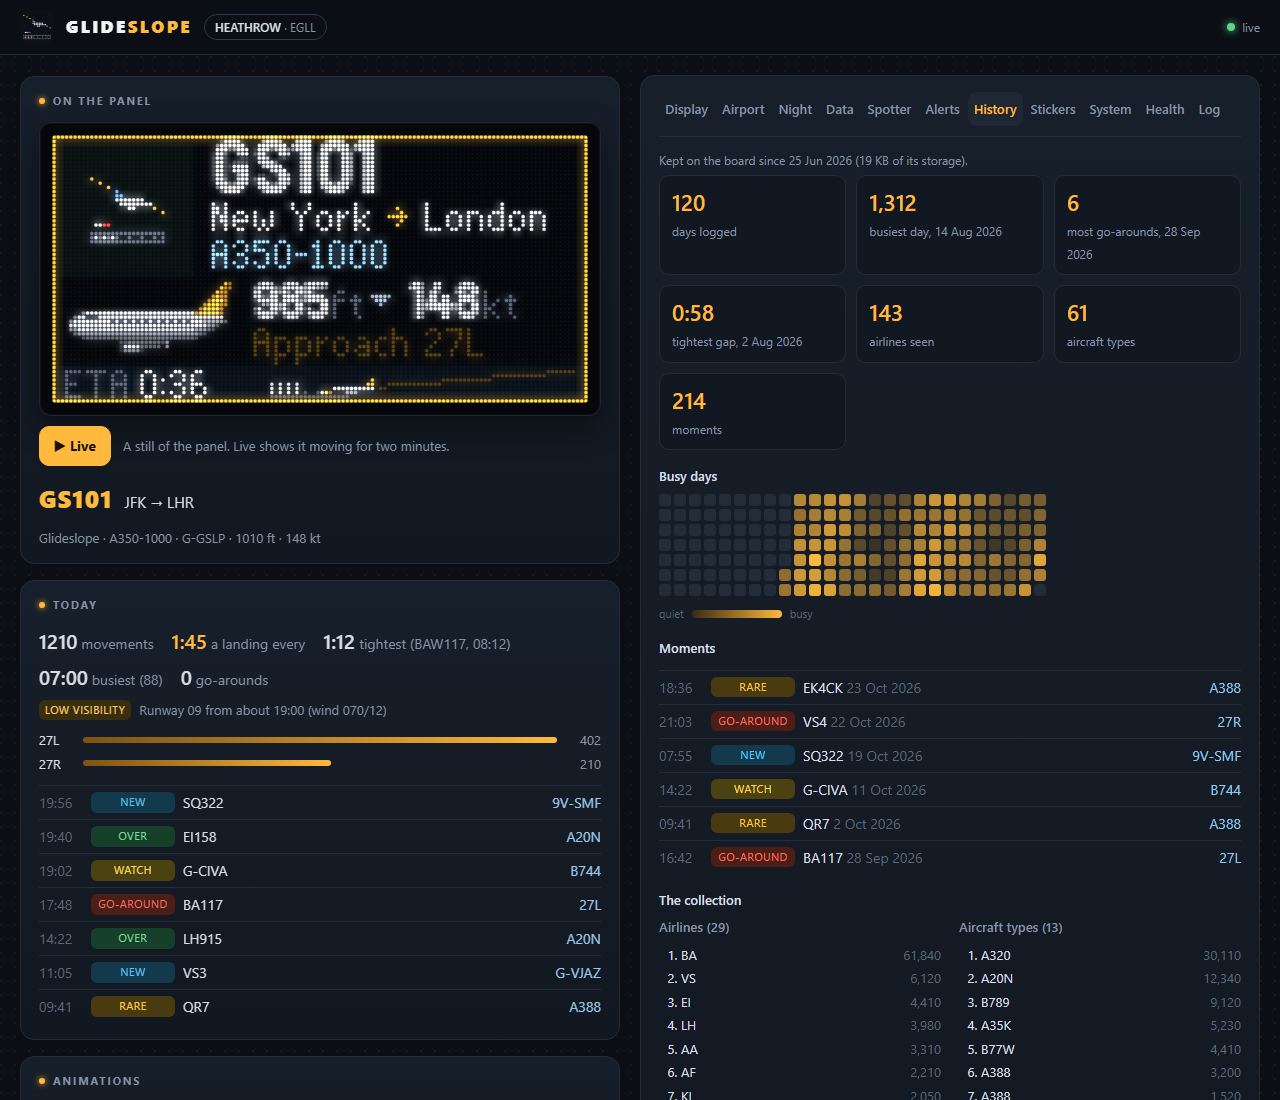
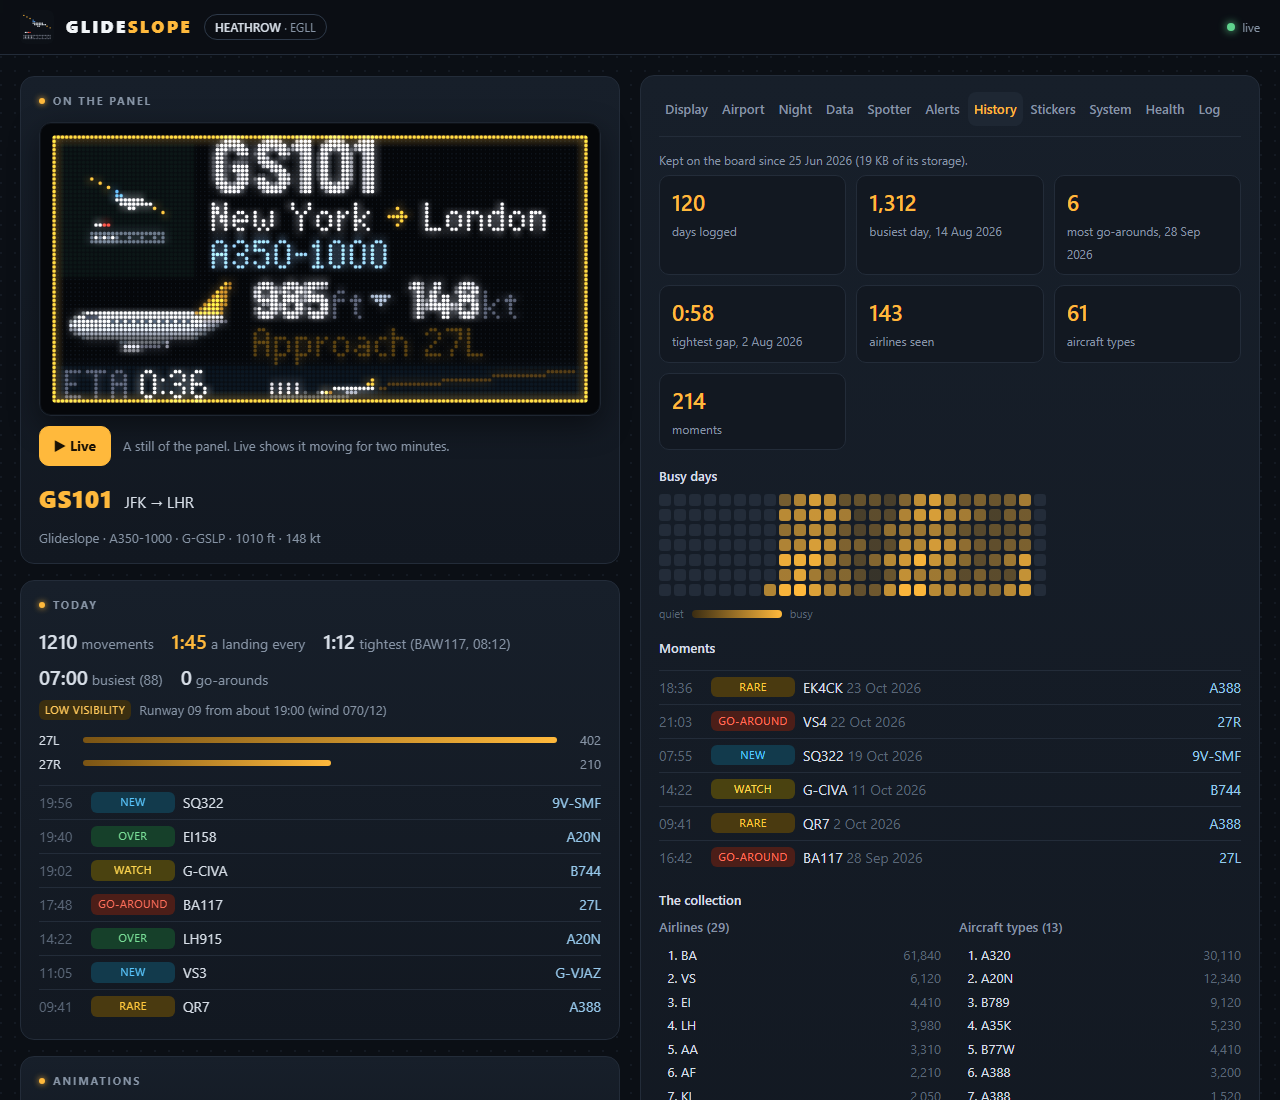
9.0.2: screenshots and changelog date

Changed region(s): [[0.5938, 0.4327, 0.8438, 0.5564]]

diff --git a/CHANGELOG.md b/CHANGELOG.md
@@ -7,7 +7,7 @@ web page (`firmware.bin`) keep your settings. Release files are on the
 There is no 3.0: the features planned for it (living sky, holding stacks,
 phone alerts) were finished alongside 4.0's and shipped together as 4.0.0.
 
-## 9.0.2 (in progress)
+## 9.0.2 (26 Oct 2026)
 
 **Fixes**
 - What the aircraft is doing outranks the route database: one on final
